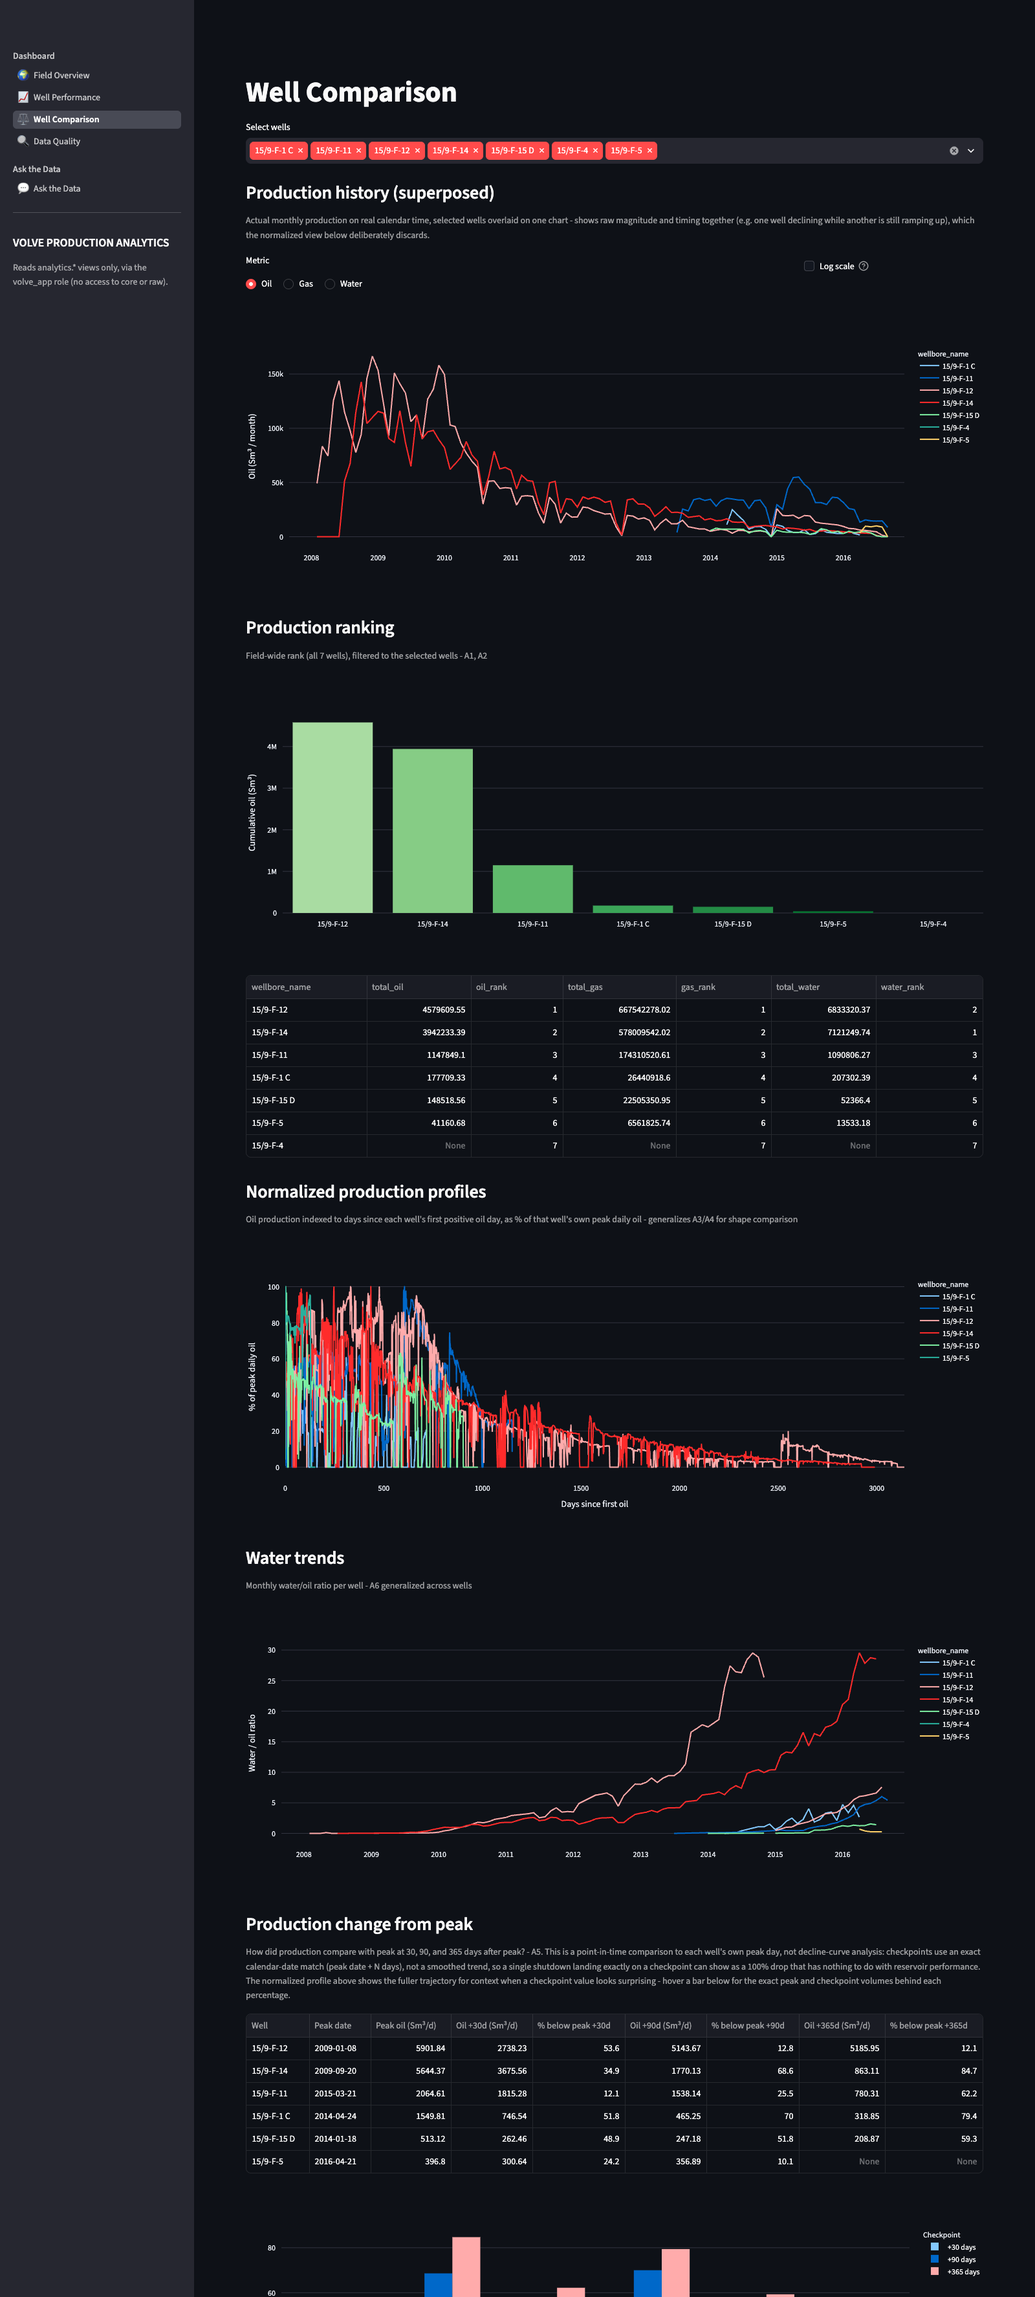
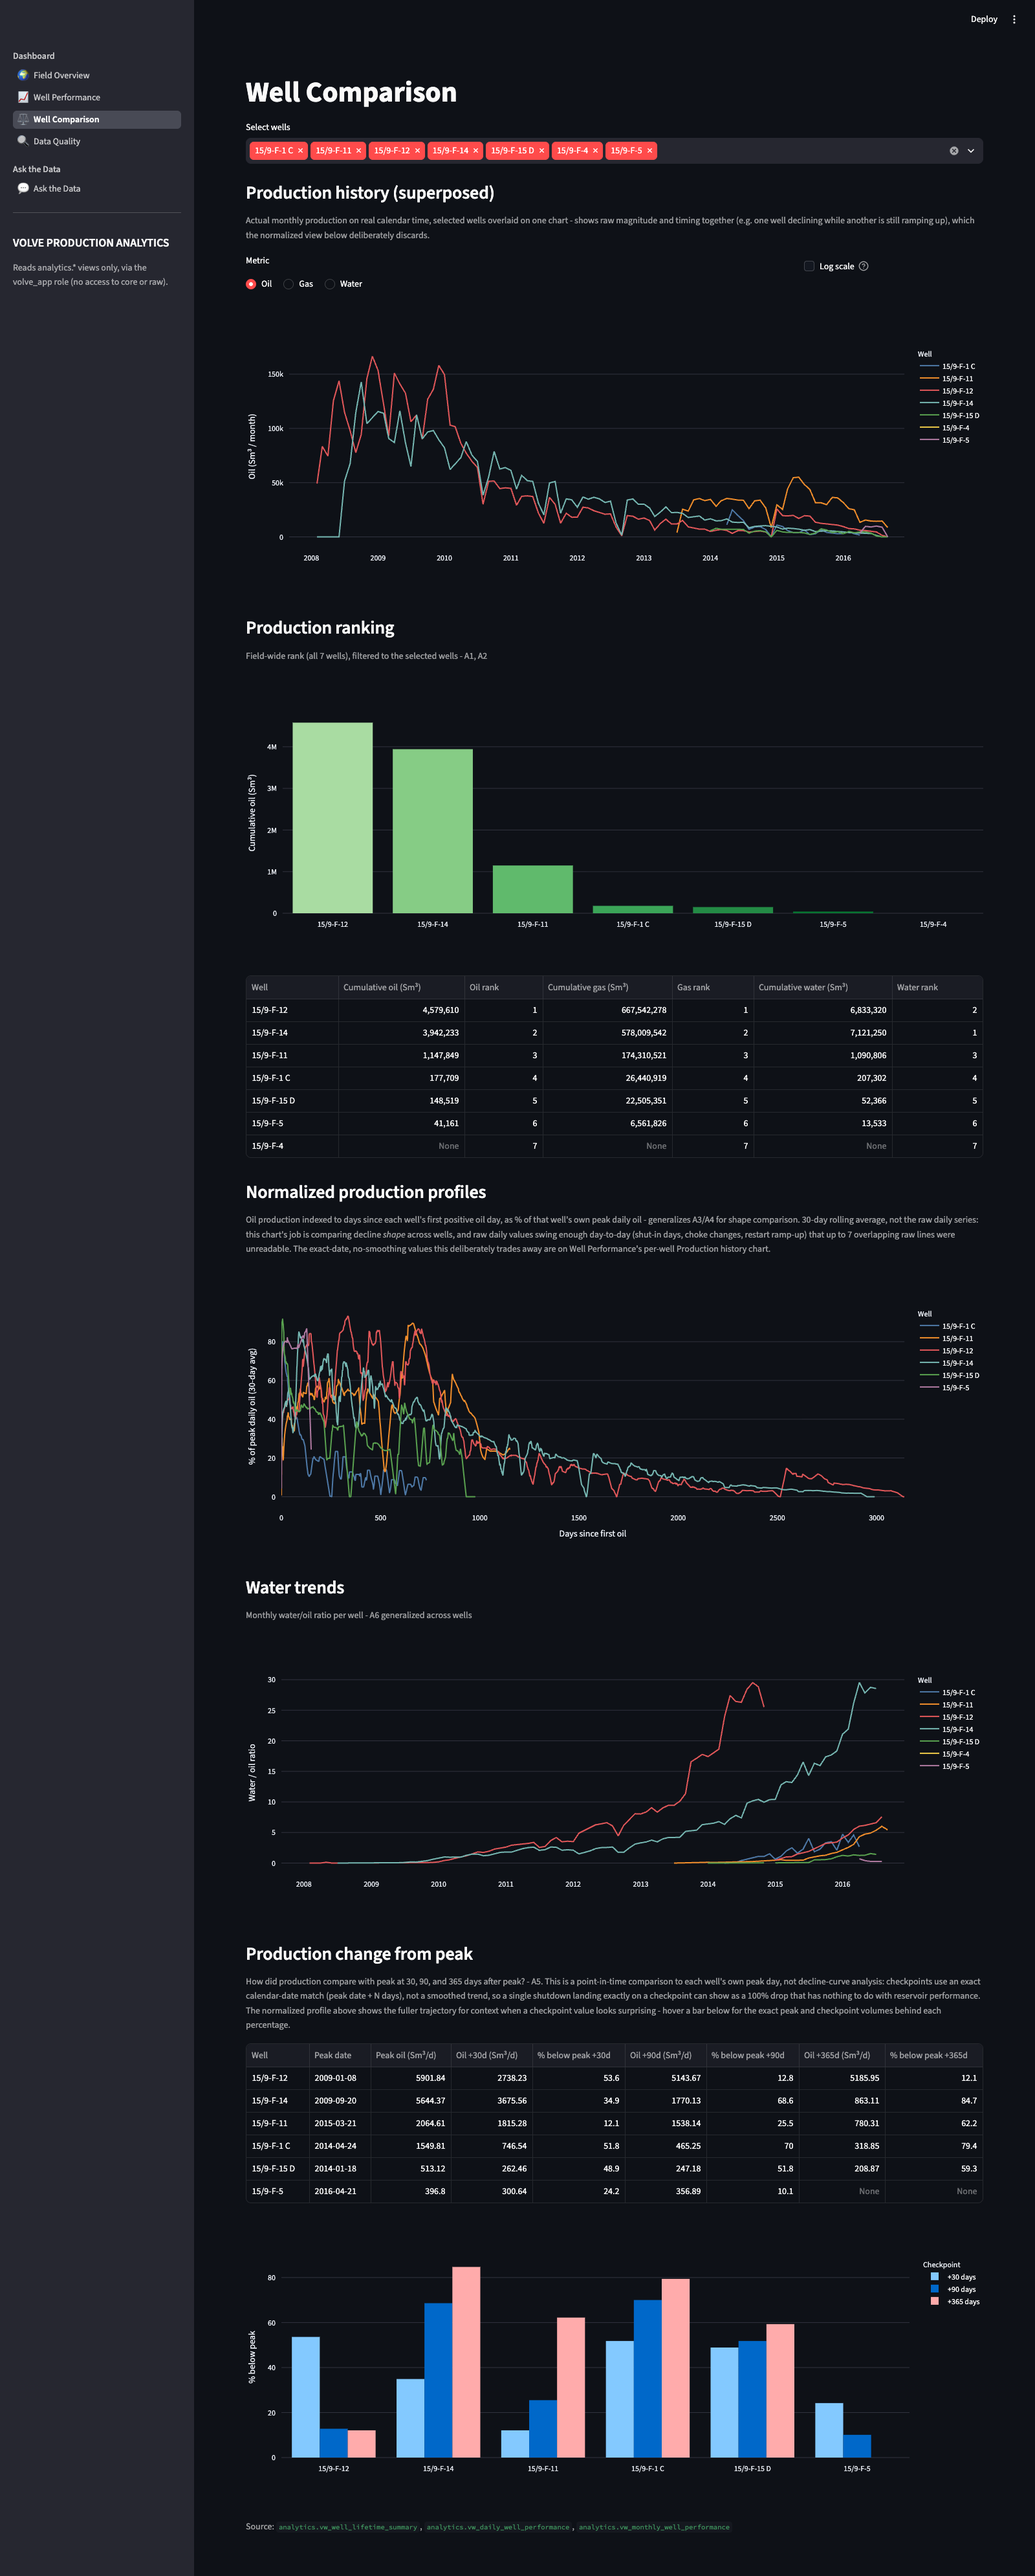
Fix color collisions, legend labels, and table formatting on Well Comparison
Default Plotly qualitative palette put two near-identical blues and two
near-identical greens/teals among this field's 7 wells at once, undercutting
the chart's own stated rationale for using a categorical palette. Replaced
with a hand-picked 8-color set (colors.WELL_PALETTE) verified distinguishable
at all 7, mapped to a fixed well->color dict so a given well keeps the same
color across every chart on the page and across selection changes, not just
within one chart.

Legend titles previously leaked the raw "wellbore_name" column name on three
charts; now labeled "Well". Production ranking table now renames columns and
formats large numbers with thousands separators, matching the rest of the
app instead of dumping raw snake_case/unrounded values.

Normalized production profiles now uses a 30-day rolling average instead of
raw daily values - with up to 7 overlapping noisy daily lines the chart was
close to illegible, and its stated job is comparing decline shape, not exact
daily figures (which remain on Well Performance's per-well chart).

diff --git a/app/views/well_comparison.py b/app/views/well_comparison.py
@@ -20,6 +20,11 @@ selected_codes = wells.loc[
     wells["wellbore_name"].isin(selected_names), "npd_well_bore_code"
 ].astype(int).tolist()
 
+# Fixed per-well color, not reassigned by charting order - keeps a given
+# well the same color across every chart on this page, and stable if the
+# selection changes, instead of shifting when a well drops out of view.
+well_color_map = dict(zip(wells["wellbore_name"], c.WELL_PALETTE))
+
 st.subheader("Production history (superposed)")
 st.caption(
     "Actual monthly production on real calendar time, selected wells overlaid on one "
@@ -41,12 +46,17 @@ with col_scale:
 metric_col = {"Oil": "oil_volume", "Gas": "gas_volume", "Water": "water_volume"}[metric]
 history = q.monthly_production_multi(selected_codes)
 if not history.empty:
-    # Default categorical palette, not a stream-themed monochrome scale:
-    # with up to 7 overlapping lines, telling wells apart by hue matters
-    # more here than reinforcing "this is an oil chart" - shades of one
-    # color made wells hard to distinguish once more than 2-3 were selected.
-    fig0 = px.line(history, x="month_start", y=metric_col, color="wellbore_name")
-    fig0.update_layout(yaxis_title=f"{metric} (Sm³ / month)", xaxis_title=None)
+    # Fixed categorical palette, not a stream-themed monochrome scale: with
+    # up to 7 overlapping lines, telling wells apart by hue matters more
+    # here than reinforcing "this is an oil chart" - shades of one color
+    # made wells hard to distinguish once more than 2-3 were selected.
+    # Plotly's own default qualitative palette isn't enough on its own at
+    # 7 categories (two near-identical blues, two near-identical
+    # greens/teals) - WELL_PALETTE is a hand-picked set verified
+    # distinguishable across all 7 wells at once.
+    fig0 = px.line(history, x="month_start", y=metric_col, color="wellbore_name",
+                    color_discrete_map=well_color_map)
+    fig0.update_layout(yaxis_title=f"{metric} (Sm³ / month)", xaxis_title=None, legend_title_text="Well")
     if log_scale:
         fig0.update_yaxes(type="log")
     st.plotly_chart(fig0, width="stretch")
@@ -67,8 +77,17 @@ if not rank_selected.empty:
     st.plotly_chart(fig, width="stretch")
     st.dataframe(
         rank_selected[["wellbore_name", "total_oil", "oil_rank", "total_gas", "gas_rank",
-                        "total_water", "water_rank"]],
+                        "total_water", "water_rank"]].rename(columns={
+            "wellbore_name": "Well", "total_oil": "Cumulative oil (Sm³)", "oil_rank": "Oil rank",
+            "total_gas": "Cumulative gas (Sm³)", "gas_rank": "Gas rank",
+            "total_water": "Cumulative water (Sm³)", "water_rank": "Water rank",
+        }),
         width="stretch", hide_index=True,
+        column_config={
+            "Cumulative oil (Sm³)": st.column_config.NumberColumn(format="%,.0f"),
+            "Cumulative gas (Sm³)": st.column_config.NumberColumn(format="%,.0f"),
+            "Cumulative water (Sm³)": st.column_config.NumberColumn(format="%,.0f"),
+        },
     )
 else:
     st.caption("Select at least one well.")
@@ -76,15 +95,29 @@ else:
 st.subheader("Normalized production profiles")
 st.caption(
     "Oil production indexed to days since each well's first positive oil day, "
-    "as % of that well's own peak daily oil  -  generalizes A3/A4 for shape comparison"
+    "as % of that well's own peak daily oil  -  generalizes A3/A4 for shape comparison. "
+    "30-day rolling average, not the raw daily series: this chart's job is comparing "
+    "decline *shape* across wells, and raw daily values swing enough day-to-day (shut-in "
+    "days, choke changes, restart ramp-up) that up to 7 overlapping raw lines were "
+    "unreadable. The exact-date, no-smoothing values this deliberately trades away are "
+    "on Well Performance's per-well Production history chart."
 )
 profiles = q.normalized_profiles(selected_codes)
 if not profiles.empty:
-    # Default categorical palette - same reasoning as the superposed chart
-    # above, only more so: this is a dense multi-line overlay where a
-    # monochrome scale made wells nearly impossible to tell apart.
-    fig2 = px.line(profiles, x="days_since_first_oil", y="pct_of_peak", color="wellbore_name")
-    fig2.update_layout(yaxis_title="% of peak daily oil", xaxis_title="Days since first oil")
+    profiles = profiles.sort_values(["wellbore_name", "days_since_first_oil"]).copy()
+    profiles["pct_of_peak_smoothed"] = (
+        profiles.groupby("wellbore_name")["pct_of_peak"]
+        .transform(lambda s: s.rolling(30, min_periods=1).mean())
+    )
+    # Fixed well-identity palette (WELL_PALETTE, via well_color_map) - same
+    # reasoning as the superposed chart above, only more so: this is a
+    # dense multi-line overlay where color collisions were worst.
+    fig2 = px.line(profiles, x="days_since_first_oil", y="pct_of_peak_smoothed", color="wellbore_name",
+                    color_discrete_map=well_color_map)
+    fig2.update_layout(
+        yaxis_title="% of peak daily oil (30-day avg)", xaxis_title="Days since first oil",
+        legend_title_text="Well",
+    )
     st.plotly_chart(fig2, width="stretch")
 else:
     st.caption("No oil-producing history for the selected wells.")
@@ -101,8 +134,9 @@ if not water.empty:
     # readability problem, not the ratio values themselves (verified live:
     # they genuinely reach ~25-30 late in some wells' lives - real rising
     # water cut, not division-by-near-zero noise).
-    fig3 = px.line(water, x="month_start", y="water_oil_ratio", color="wellbore_name")
-    fig3.update_layout(yaxis_title="Water / oil ratio", xaxis_title=None)
+    fig3 = px.line(water, x="month_start", y="water_oil_ratio", color="wellbore_name",
+                    color_discrete_map=well_color_map)
+    fig3.update_layout(yaxis_title="Water / oil ratio", xaxis_title=None, legend_title_text="Well")
     st.plotly_chart(fig3, width="stretch")
 else:
     st.caption("No monthly data for the selected wells.")

diff --git a/app/colors.py b/app/colors.py
@@ -26,6 +26,24 @@ WATER_SCALE = "Blues"
 GAS_SCALE = "Reds"
 STREAM_SCALE_MAP = {"Oil": OIL_SCALE, "Gas": GAS_SCALE, "Water": WATER_SCALE}
 
+# Tableau10, for charts overlaying multiple wells' identity rather than a
+# single stream (Well Comparison's superposed/normalized/water-trend
+# charts) - Plotly's default qualitative palette puts two near-identical
+# blues and two near-identical greens/teals among this field's 7 wells at
+# once, defeating the point of a categorical palette. Fixed hue order
+# (not resampled per well count) so a given well keeps the same color
+# across every chart on the page, not just within one.
+WELL_PALETTE = [
+    "#4E79A7",  # blue
+    "#F28E2B",  # orange
+    "#E15759",  # red
+    "#76B7B2",  # teal
+    "#59A14F",  # green
+    "#EDC948",  # yellow
+    "#B07AA1",  # purple
+    "#FF9DA7",  # pink
+]
+
 
 def shades(scale_name: str, n: int) -> list[str]:
     """
